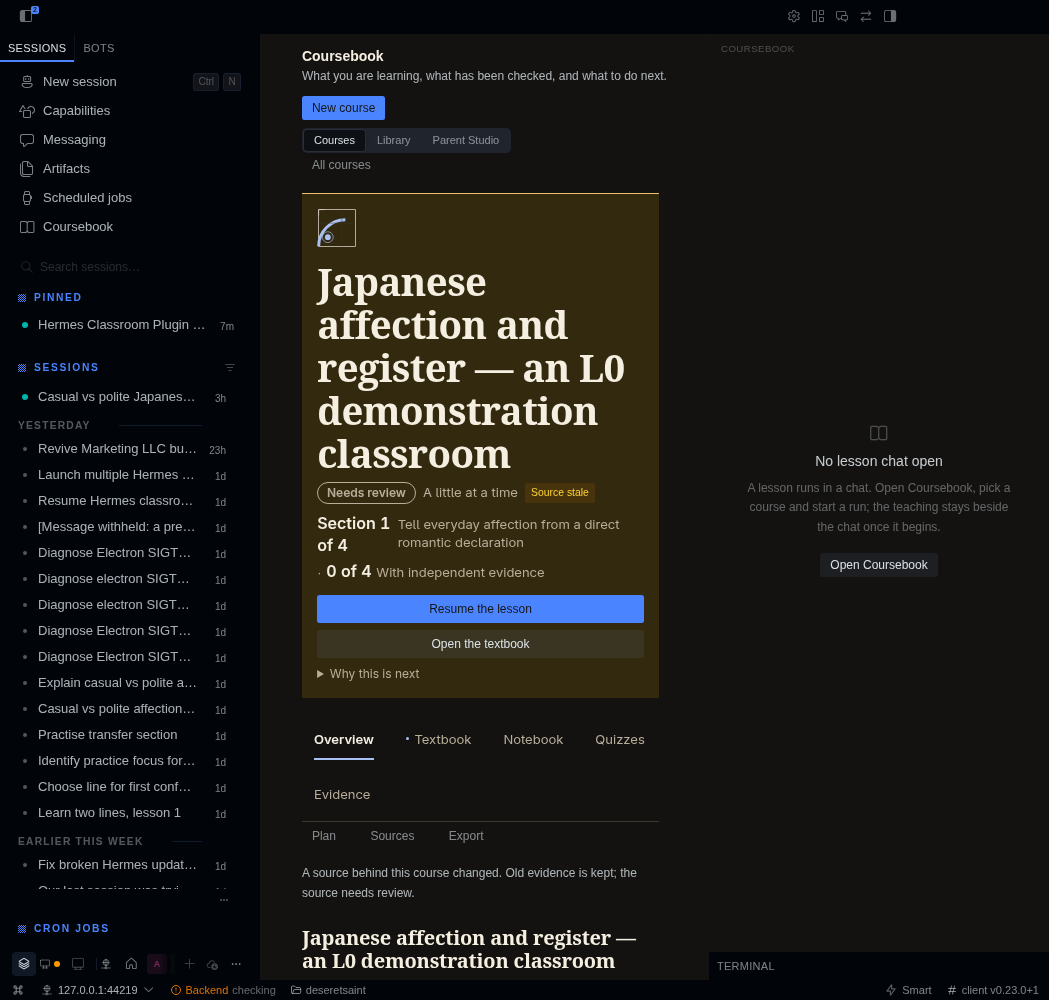
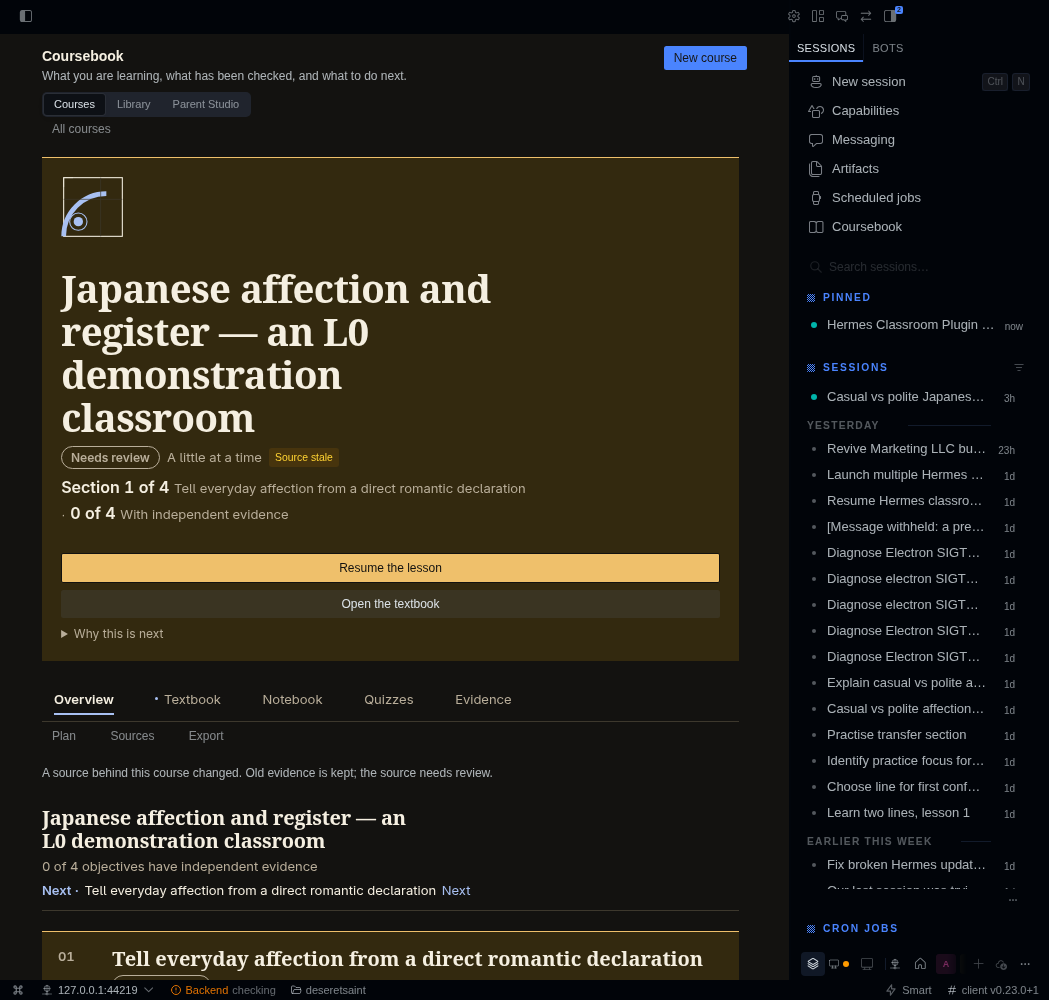
H-83: paint the one primary action with the lamp field
The SDK button keeps its behaviour and focus handling; the primary's fill now
comes from --cb-lamp with --cb-on-lamp text (measured live: rgb(239,192,107)
fill, rgb(19,18,16) label), so the course hero and the section shell show the
brand field instead of the host accent. Evidence and M4 re-pinned.

diff --git a/desktop/plugin.js b/desktop/plugin.js
@@ -8427,6 +8427,18 @@ function cbModeFor(view) {
 }
 
 /**
+ * The lamp fill for the one primary action on a screen. The SDK button supplies behaviour, focus
+ * and disabled handling; the identity fill comes from the scoped tokens so the primary is the
+ * brand field and not the host's default accent (§4.12 of the v2 spec).
+ */
+const CB_PRIMARY_STYLE = {
+  background: 'var(--cb-lamp)',
+  color: 'var(--cb-on-lamp)',
+  border: '1px solid var(--cb-on-lamp)',
+  borderRadius: '2px'
+}
+
+/**
  * The state word with its hue. The pill is always text; colour is the second channel, never the
  * only one (docs/COURSEBOOK-VISUAL-IDENTITY-V2.md §2.3, §6.3).
  */
@@ -11195,6 +11207,7 @@ function SectionPage({ row, objectiveId, page, pageStatus, pageError, onRetryPag
             jsx(sdk.Button, {
               variant: 'default',
               size: 'sm',
+              style: CB_PRIMARY_STYLE,
               disabled: busy,
               onClick: () => begin(bindingActive ? 'resume' : 'fresh'),
               children: busy ? 'Opening the lesson' : bindingActive ? 'Continue in the lesson chat' : 'Start the lesson'
@@ -11582,6 +11595,7 @@ function OverviewView({ row, page, review, quizzes, outline, implemented, onOpen
               jsx(sdk.Button, {
                 variant: 'default',
                 size: 'sm',
+                style: CB_PRIMARY_STYLE,
                 disabled: !section,
                 onClick: () => onResume(section ? section.objective_id : null),
                 children: next.kind === 'resume_lesson' ? 'Resume the lesson' : 'Start the lesson'
@@ -13691,6 +13705,7 @@ function CourseDetail({ row, implemented, profile, onBack, onChanged, focusObjec
               children: [
                 jsx(sdk.Button, {
                   variant: 'default',
+                  style: CB_PRIMARY_STYLE,
                   disabled: busy,
                   onClick: () => startLesson(nextKind === 'resume_lesson' && topCanResume ? 'resume' : 'fresh'),
                   children: busy ? 'Opening' : topCanResume ? 'Resume the lesson' : 'Start the lesson'
